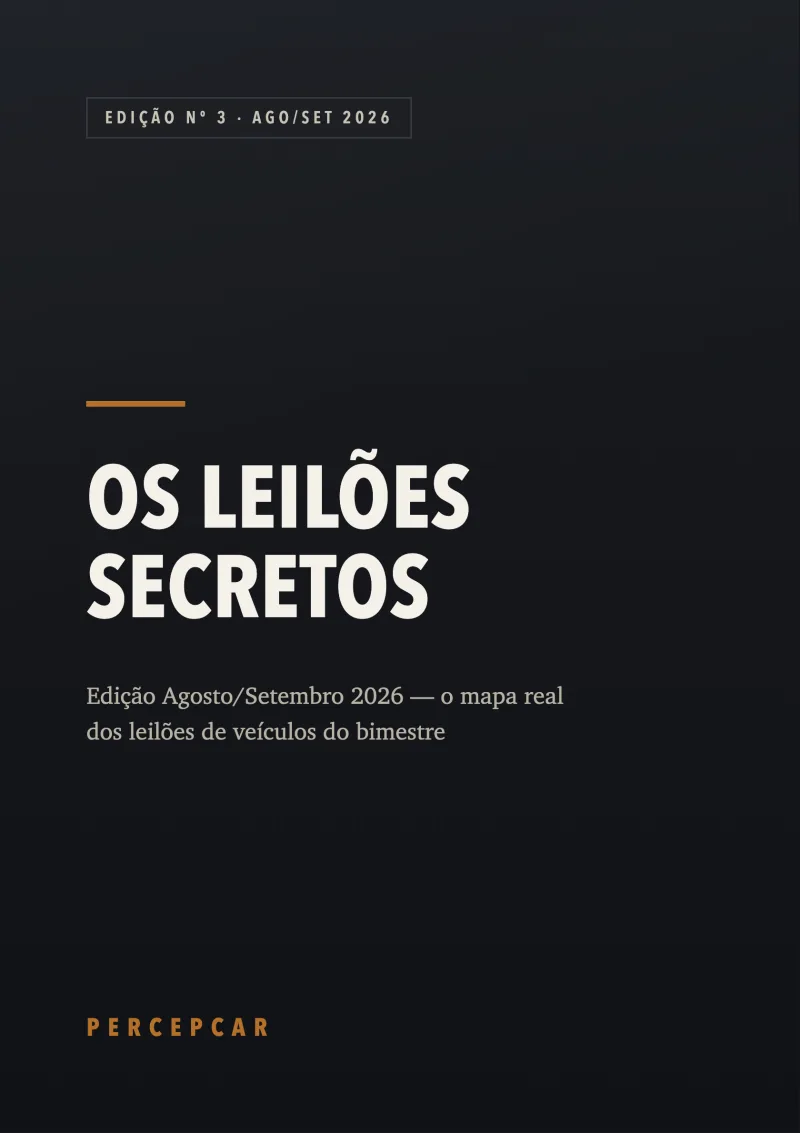
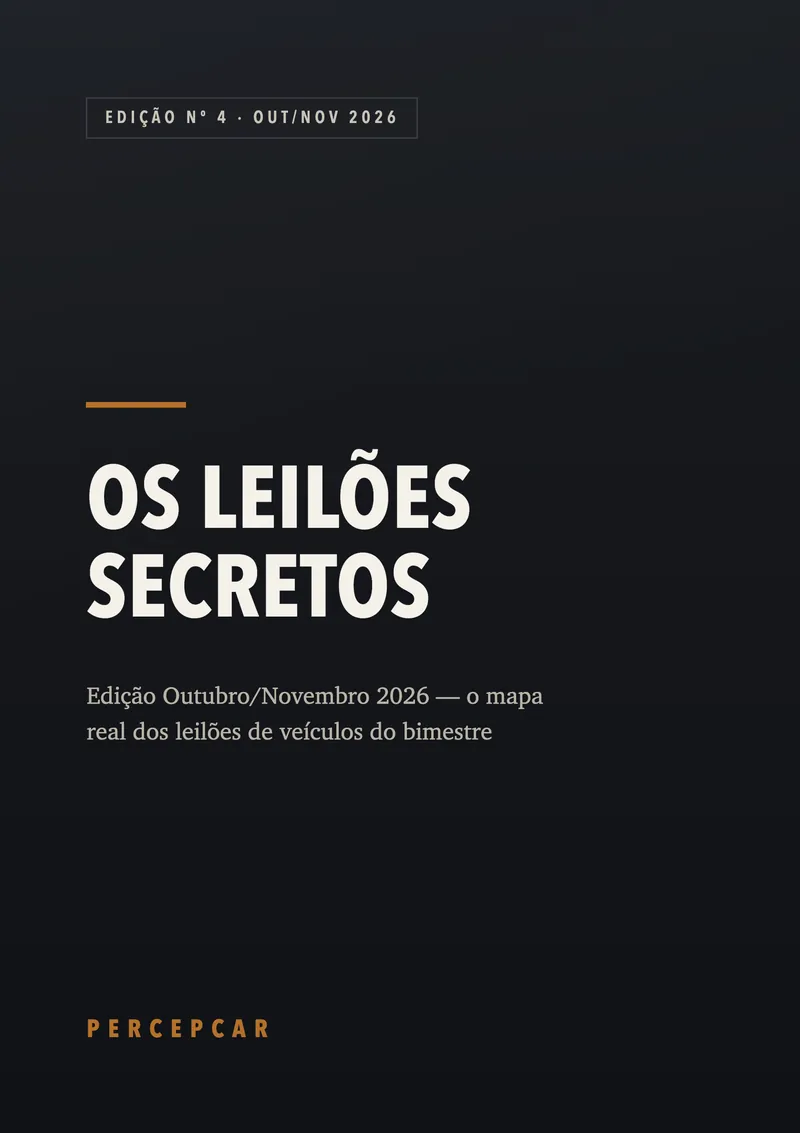
LP: edição Out/Nov 2026 — checkout X107960234Q, 48 editais, 84 páginas, apuração 13/10, capa nova (GO do dono 02/10; cadastro finalizado 13/10)

diff --git a/index.html b/index.html
@@ -3,8 +3,8 @@
 <head>
 <meta charset="UTF-8">
 <meta name="viewport" content="width=device-width, initial-scale=1.0">
-<title>Os Leilões Secretos — Edição Agosto/Setembro 2026 | Percepcar</title>
-<meta name="description" content="Aprenda a não cair em golpe de leilão de carro. O guia datado de agosto/setembro de 2026 com 18 editais do bimestre conferidos um por um na fonte oficial, a regra que desmonta o site clone e como ler um edital antes do primeiro lance.">
+<title>Os Leilões Secretos — Edição Outubro/Novembro 2026 | Percepcar</title>
+<meta name="description" content="Aprenda a não cair em golpe de leilão de carro. O guia datado de outubro/novembro de 2026 com 48 editais do bimestre conferidos um por um na fonte oficial, a regra que desmonta o site clone e como ler um edital antes do primeiro lance.">
 <style>
 :root{
   --bg:#0a0a0c; --bg2:#111114; --card:#16161a; --line:#26262c;
@@ -152,23 +152,23 @@ footer p{font-size:12.5px;color:var(--gray2);line-height:1.7;max-width:620px;mar
 </head>
 <body>
 
-<div class="urg">📅 <span>Edição datada Agosto/Setembro 2026 · apuração conferida na fonte oficial em 07/08/2026</span></div>
+<div class="urg">📅 <span>Edição datada Outubro/Novembro 2026 · apuração conferida na fonte oficial em 13/10/2026</span></div>
 
 <header class="hero">
   <div class="wrap">
     <div class="hero-grid">
       <div class="hero-txt">
         <div class="brand">Percepcar apresenta</div>
-        <span class="eyebrow">Guia digital · Edição Agosto/Setembro 2026</span>
+        <span class="eyebrow">Guia digital · Edição Outubro/Novembro 2026</span>
         <h1>Aprenda a não cair em <span class="r">golpe</span> de leilão de carro.</h1>
-        <p class="sub">O guia datado de agosto/setembro de 2026 com <b>o caminho para achar o leilão de verdade</b> — 18 editais do bimestre conferidos um por um na fonte oficial, a regra que desmonta o site clone e como ler um edital antes de dar o primeiro lance. <b>Conhecimento e passo a passo, não promessa de carro barato.</b></p>
+        <p class="sub">O guia datado de outubro/novembro de 2026 com <b>o caminho para achar o leilão de verdade</b> — 48 editais do bimestre conferidos um por um na fonte oficial, a regra que desmonta o site clone e como ler um edital antes de dar o primeiro lance. <b>Conhecimento e passo a passo, não promessa de carro barato.</b></p>
         <div class="cta-row">
-          <a href="https://pay.hotmart.com/R107066007T?src=lp&sck=lp_leiloes-secretos-ago-set" class="btn big">Quero o guia agora →</a>
+          <a href="https://pay.hotmart.com/X107960234Q?src=lp&sck=lp_leiloes-secretos-out-nov" class="btn big">Quero o guia agora →</a>
           <div class="guarantee">🔒 <b>Acesso imediato</b> · 7 dias de garantia · R$ 19,90</div>
         </div>
       </div>
       <div class="hero-cover">
-        <img src="capa.webp" alt="Capa do guia Os Leilões Secretos — Edição Agosto/Setembro 2026" width="800" height="1133">
+        <img src="capa.webp" alt="Capa do guia Os Leilões Secretos — Edição Outubro/Novembro 2026" width="800" height="1133">
       </div>
     </div>
   </div>
@@ -178,8 +178,8 @@ footer p{font-size:12.5px;color:var(--gray2);line-height:1.7;max-width:620px;mar
   <div class="wrap">
     <div class="stats-grid">
       <div class="stat"><div class="n">7</div><div class="l">Capítulos, do mapa dos leilões ao checklist final</div></div>
-      <div class="stat"><div class="n">71</div><div class="l">Páginas de PDF com apuração datada do bimestre</div></div>
-      <div class="stat"><div class="n">18</div><div class="l">Editais de ago/set conferidos na fonte oficial em 07/08/2026</div></div>
+      <div class="stat"><div class="n">84</div><div class="l">Páginas de PDF com apuração datada do bimestre</div></div>
+      <div class="stat"><div class="n">48</div><div class="l">Editais de out/nov conferidos na fonte oficial em 13/10/2026</div></div>
       <div class="stat"><div class="n">7</div><div class="l">Sinais de picaretagem que denunciam o golpe</div></div>
     </div>
   </div>
@@ -191,7 +191,7 @@ footer p{font-size:12.5px;color:var(--gray2);line-height:1.7;max-width:620px;mar
     <h2 class="sec-title">Você trava na mesma pergunta:<br><span class="r">"e se for golpe?"</span></h2>
     <div class="hook-box">
       <div class="big-num">O medo é justo.<br>O golpista <span class="r">imita</span> o leilão de verdade.</div>
-      <p>Quando a gente foi apurar esta edição, a própria busca devolveu uma penca de site clone junto com os oficiais:</p>
+      <p>Quando a gente começou a apurar este guia, a própria busca devolveu uma penca de site clone junto com os oficiais:</p>
       <div class="clones">
         <span class="clone">sodreleiloes.org</span>
         <span class="clone">ofiicialcopart.com</span>
@@ -208,14 +208,14 @@ footer p{font-size:12.5px;color:var(--gray2);line-height:1.7;max-width:620px;mar
 <section>
   <div class="wrap">
     <div class="sec-eyebrow">A estrela do guia</div>
-    <h2 class="sec-title">O apêndice: <span class="r">18 editais</span> conferidos um por um</h2>
-    <p class="sec-intro">O que todo mundo pede quando o assunto é leilão são os endereços. O guia entrega o caminho oficial — e um apêndice com <b>18 editais de agosto e setembro de 2026 conferidos um por um na fonte oficial em 07/08/2026</b>, com o link do edital em cada linha:</p>
+    <h2 class="sec-title">O apêndice: <span class="r">48 editais</span> conferidos um por um</h2>
+    <p class="sec-intro">O que todo mundo pede quando o assunto é leilão são os endereços. O guia entrega o caminho oficial — e um apêndice com <b>48 editais de outubro e novembro de 2026 conferidos um por um na fonte oficial em 13/10/2026</b>, com o link do edital em cada linha:</p>
     <div class="dir-box">
-      <span class="dir-badge">★ 18 editais conferidos na fonte oficial</span>
+      <span class="dir-badge">★ 48 editais conferidos na fonte oficial</span>
       <h3>Leilão que não deu pra confirmar em documento <span class="r">não entrou</span> — e nome grande do mercado ficou de fora por isso, porque a regra vale pra todo mundo.</h3>
-      <div class="layer"><div class="ln">3</div><div class="lt"><b>Detran-SP</b> — 3 editais publicados no Diário Oficial do Estado (Lorena e Roseira, região de Piracicaba e região de Campinas), cada um com o leiloeiro oficial designado no próprio edital.</div></div>
-      <div class="layer"><div class="ln">7</div><div class="lt"><b>Receita Federal</b> — 7 editais lidos direto no portal do SLE (Belo Horizonte, Rio de Janeiro, Salvador, Curitiba, Vitória e Porto Alegre); a participação é sempre pelo Portal e-CAC, com conta gov.br prata ou ouro.</div></div>
-      <div class="layer"><div class="ln">8</div><div class="lt"><b>Detran-MG</b> — 8 editais eletrônicos no portal do próprio órgão, com encerramentos de agosto a setembro e o PDF do edital linkado em cada item.</div></div>
+      <div class="layer"><div class="ln">8</div><div class="lt"><b>Detran-SP</b> — 8 editais publicados no Diário Oficial do Estado, com pátios da capital ao oeste paulista (Sorocaba, Bauru, Jaú, Embu das Artes, Vargem Grande Paulista e outros), cada um com o leiloeiro oficial designado no próprio edital.</div></div>
+      <div class="layer"><div class="ln">5</div><div class="lt"><b>Receita Federal</b> — 5 editais com veículo para pessoa física, lidos direto no portal do SLE (Paraná e Santa Catarina, Rio Grande do Sul, Recife, Vitória e Região Norte); a participação é sempre pelo Portal e-CAC, com conta gov.br prata ou ouro.</div></div>
+      <div class="layer"><div class="ln">35</div><div class="lt"><b>Detran-MG</b> — 35 editais eletrônicos no portal do próprio órgão, com encerramentos de outubro a novembro e o PDF do edital linkado em cada item.</div></div>
       <div class="rule">🛡 A regra que não vence nunca: <b>digite o endereço na mão, salve nos favoritos, e nunca entre por link que te mandaram.</b></div>
     </div>
   </div>
@@ -225,19 +225,19 @@ footer p{font-size:12.5px;color:var(--gray2);line-height:1.7;max-width:620px;mar
   <div class="wrap">
     <div class="sec-eyebrow">O que tem dentro</div>
     <h2 class="sec-title">7 capítulos. Apuração <span class="r">datada e real</span>.</h2>
-    <p class="sec-intro">São <b>7 capítulos, 71 páginas de PDF</b>, com editais, números e datas conferidos na fonte oficial em 07/08/2026. Não é PDF genérico requentado: cada edição da linha refaz a apuração do zero.</p>
+    <p class="sec-intro">São <b>7 capítulos, 84 páginas de PDF</b>, com editais, números e datas conferidos na fonte oficial em 13/10/2026. Não é PDF genérico requentado: cada edição da linha refaz a apuração do zero.</p>
     <div class="grid">
       <div class="feat"><div class="num">CAPÍTULO 1</div><h3>Onde é leilão de verdade (e como reconhecer o site golpista)</h3><p>As quatro portas oficiais — Receita Federal, Detrans estaduais, bancos e financeiras, seguradoras — e os leiloeiros que operam por elas. A regra de ouro órgão → edital → leiloeiro → plataforma, nunca o contrário. E os 7 sinais de picaretagem (Pix pra "reservar lote", pressa inventada, edital que não existe, domínio clonado...).</p></div>
-      <div class="feat"><div class="num">CAPÍTULO 2</div><h3>O edital manda: a categoria do lote decide tudo</h3><p>O capítulo do "22 de 283", com a fonte oficial ao lado. A anatomia de um edital em 8 peças, as três categorias de lote (circulação, sucata pra desmonte, sucata pra fundição), as armadilhas de linguagem e a tabela que resolve a dúvida em dez segundos — com a base legal citada.</p></div>
+      <div class="feat"><div class="num">CAPÍTULO 2</div><h3>O edital manda: a categoria do lote decide tudo</h3><p>O capítulo do "50 de 827", com a fonte oficial ao lado. A anatomia de um edital em 8 peças, as três categorias de lote (circulação, sucata pra desmonte, sucata pra fundição), as armadilhas de linguagem e a tabela que resolve a dúvida em dez segundos — com a base legal citada.</p></div>
       <div class="feat"><div class="num">CAPÍTULO 3</div><h3>Cadastro e habilitação — o relógio que ninguém avisa</h3><p>Cadastro não é habilitação. Os documentos, quando o CNPJ passa a ser exigido, a conta gov.br prata ou ouro pra participar da Receita pelo e-CAC — e o prazo que derruba iniciante: a inscrição costuma fechar 48h antes da sessão.</p></div>
       <div class="feat"><div class="num">CAPÍTULO 4</div><h3>Vistoria e avaliação do lote</h3><p>O que a foto entrega e o que ela esconde. Como funciona a visitação e o que é permitido fazer no pátio (normalmente não se liga o motor). O roteiro de vistoria na ordem em que se faz, os vermelhos absolutos — e o que pedir pra quem você levar junto olhar.</p></div>
       <div class="feat"><div class="num">CAPÍTULO 5</div><h3>A conta REAL depois do martelo</h3><p>Os sete blocos de custo: comissão do leiloeiro e taxas, pátio e estadia, remoção, débitos, vistoria e transferência, reparo e as linhas pequenas que somam. As sete perguntas que você manda por escrito ao leiloeiro antes do lance e a planilha do teto.</p></div>
       <div class="feat"><div class="num">CAPÍTULO 6</div><h3>O lance e o pós-arremate</h3><p>Como o pregão funciona por dentro (incremento, prorrogação automática, lance condicional), as cinco regras de disciplina de teto, os erros que mais queimam gente e o passo a passo do que acontece depois do martelo — nota de arrematação, pagamento, retirada, documentação.</p></div>
-      <div class="feat"><div class="num">CAPÍTULO 7</div><h3>Apêndice Agosto/Setembro 2026</h3><p>Os 18 editais com link, os três exemplos comentados (Detran-SP Campinas, Receita Federal e Detran-MG), os cinco avisos anti-golpe do bimestre e o checklist de uma página — antes, no dia e depois — que é a parte que você imprime e leva.</p></div>
+      <div class="feat"><div class="num">CAPÍTULO 7</div><h3>Apêndice Outubro/Novembro 2026</h3><p>Os 48 editais com link, os três exemplos comentados (Detran-SP na capital, Receita Federal no Paraná e em Santa Catarina e Detran-MG em Caratinga), os seis avisos anti-golpe do bimestre e o checklist de uma página — antes, no dia e depois — que é a parte que você imprime e leva.</p></div>
     </div>
     <div class="mid-cta">
-      <div class="lk">📕 <b>7 capítulos + o apêndice com os 18 editais</b> · PDF com acesso imediato após o pagamento</div>
-      <a href="https://pay.hotmart.com/R107066007T?src=lp&sck=lp_leiloes-secretos-ago-set" class="btn">Quero o guia agora →</a>
+      <div class="lk">📕 <b>7 capítulos + o apêndice com os 48 editais</b> · PDF com acesso imediato após o pagamento</div>
+      <a href="https://pay.hotmart.com/X107960234Q?src=lp&sck=lp_leiloes-secretos-out-nov" class="btn">Quero o guia agora →</a>
     </div>
   </div>
 </section>
@@ -283,19 +283,19 @@ footer p{font-size:12.5px;color:var(--gray2);line-height:1.7;max-width:620px;mar
 <section class="price-sec" id="preco">
   <div class="wrap">
     <div class="price-card">
-      <span class="price-badge">Guia digital · Edição Agosto/Setembro 2026</span>
+      <span class="price-badge">Guia digital · Edição Outubro/Novembro 2026</span>
       <div class="price-title">Os Leilões Secretos</div>
       <div class="price-now">R$ 19<span class="cents">,90</span></div>
       <div class="price-sub">Pagamento único · acesso imediato</div>
       <ul class="price-list">
-        <li>7 capítulos · 71 páginas de PDF</li>
-        <li>6 capítulos que não vencem + apêndice com 18 editais linkados</li>
+        <li>7 capítulos · 84 páginas de PDF</li>
+        <li>6 capítulos que não vencem + apêndice com 48 editais linkados</li>
         <li>A regra de ouro contra site clone e os 7 sinais de picaretagem</li>
         <li>Como ler edital e a categoria do lote antes de qualquer lance</li>
         <li>O custo real do carro: a conta que vem depois do lance</li>
         <li>Checklist final + calendário datado do bimestre</li>
       </ul>
-      <a href="https://pay.hotmart.com/R107066007T?src=lp&sck=lp_leiloes-secretos-ago-set" class="btn big">Quero o guia agora →</a>
+      <a href="https://pay.hotmart.com/X107960234Q?src=lp&sck=lp_leiloes-secretos-out-nov" class="btn big">Quero o guia agora →</a>
       <div class="price-foot">🔒 Compra segura via Hotmart · 7 dias de garantia · acesso imediato</div>
     </div>
     <div class="gbox">✅ <b>7 dias de garantia incondicional, pela Hotmart.</b> Comprou, leu, não era o que você esperava? Pede o reembolso dentro de 7 dias e recebe o valor integral de volta. O risco é nosso, não seu.</div>
@@ -309,7 +309,7 @@ footer p{font-size:12.5px;color:var(--gray2);line-height:1.7;max-width:620px;mar
     <div class="faq-item"><h3>Funciona no meu estado?</h3><p>Funciona. O método vale pra qualquer estado do Brasil: a Receita é nacional (um portal só), cada Detran publica seus leilões no Diário Oficial do próprio estado, e os grandes leiloeiros atuam no país inteiro. O guia te ensina a achar o leilão do <b>seu</b> estado pela porta certa. O que muda de um estado pro outro é o endereço; o caminho pra chegar nele é o mesmo.</p></div>
     <div class="faq-item"><h3>Preciso de CNPJ?</h3><p>Na maioria dos casos, não. Pessoa física maior de 18 anos participa dos leilões da Receita (com conta Gov.br selo Prata ou Ouro) e dos leilões de Detran e de leiloeiros (com RG, CPF e comprovante de residência). CNPJ só é exigido em casos específicos — por exemplo, leilão de <b>sucata inservível</b>, que é só pra empresa de reciclagem. E esse tipo de lote é justamente um dos que o guia te ensina a <b>reconhecer e evitar</b> se o seu plano é rodar com o carro.</p></div>
     <div class="faq-item"><h3>Serve pra quem nunca deu um lance?</h3><p>Serve, e foi escrito pensando em você. O guia começa do começo: o que é leilão, onde é o de verdade, como ler o edital, como se cadastrar e se habilitar, e como dar o primeiro lance com segurança e com um teto na cabeça. Linguagem direta, sem termo complicado.</p></div>
-    <div class="faq-item"><h3>E quando as datas de agosto e setembro passarem? O ebook ainda serve?</h3><p>Serve — e o próprio guia é honesto sobre isso. O calendário datado não é pra te mandar correr num leilão de agosto; é pra te mostrar o <b>ritmo</b> com que esses leilões acontecem (só o Detran-SP abriu três leilões em cinco semanas) e onde procurar o da vez. O que não vence é o <b>método</b> e o <b>diretório de sites verificados</b> — eles valem pra qualquer leilão, de qualquer mês, em qualquer estado. Cada edição da linha refaz a apuração do bimestre novo.</p></div>
+    <div class="faq-item"><h3>E quando as datas de outubro e novembro passarem? O ebook ainda serve?</h3><p>Serve — e o próprio guia é honesto sobre isso. O calendário datado não é pra te mandar correr num leilão de outubro; é pra te mostrar o <b>ritmo</b> com que esses leilões acontecem (só o Detran-SP tem oito leilões com sessão neste bimestre) e onde procurar o da vez. O que não vence é o <b>método</b> e o <b>diretório de sites verificados</b> — eles valem pra qualquer leilão, de qualquer mês, em qualquer estado. Cada edição da linha refaz a apuração do bimestre novo.</p></div>
     <div class="faq-item"><h3>Esse guia garante que vou comprar carro barato ou lucrar?</h3><p>Não — e desconfie de quem garantir. Leilão tem risco, e o resultado depende do carro, do lance e da sua execução. O que o guia entrega é o <b>método e a proteção</b>: onde é o leilão de verdade, como não cair em golpe, como ler a categoria do lote e como montar a conta real antes de dar o lance. É ferramenta de decisão, não promessa de resultado.</p></div>
     <div class="faq-item"><h3>Como recebo depois de comprar?</h3><p>Acesso imediato. Assim que o pagamento é confirmado, você recebe o guia em PDF pra ler no celular, no tablet ou no computador.</p></div>
     <div class="faq-item"><h3>Preciso entender de mecânica?</h3><p>Não pra usar o guia. Pra avaliar o estado de um carro na vistoria, o próprio guia recomenda levar alguém que entenda de mecânica junto — e ensina o que olhar mesmo que você não seja especialista.</p></div>
@@ -320,7 +320,7 @@ footer p{font-size:12.5px;color:var(--gray2);line-height:1.7;max-width:620px;mar
 <footer>
   <div class="wrap">
     <div class="fbrand">PERCEPCAR</div>
-    <p>Este guia tem caráter informativo e educacional sobre o mercado de leilões de veículos. Editais, datas, pátios e categorias citados foram apurados na fonte oficial em 07/08/2026 — leilão é conteúdo datado e as condições podem mudar; confirme sempre no edital oficial antes de dar qualquer lance. O guia não garante lucro, economia ou aprovação em nenhum leilão. percepcar.com.br</p>
+    <p>Este guia tem caráter informativo e educacional sobre o mercado de leilões de veículos. Editais, datas, pátios e categorias citados foram apurados na fonte oficial em 02/10/2026 e conferidos de novo em 13/10/2026 — leilão é conteúdo datado e as condições podem mudar; confirme sempre no edital oficial antes de dar qualquer lance. O guia não garante lucro, economia ou aprovação em nenhum leilão. percepcar.com.br</p>
   </div>
 </footer>
 
@@ -330,7 +330,7 @@ footer p{font-size:12.5px;color:var(--gray2);line-height:1.7;max-width:620px;mar
 (function () {
   var q = new URLSearchParams(location.search);
   var src = q.get('src') || 'lp';
-  var sck = q.get('sck') || 'lp_leiloes-secretos-ago-set';
+  var sck = q.get('sck') || 'lp_leiloes-secretos-out-nov';
   document.querySelectorAll('a[href*="pay.hotmart.com"], a[href*="go.hotmart.com"]').forEach(function (a) {
     try {
       var u = new URL(a.href);
